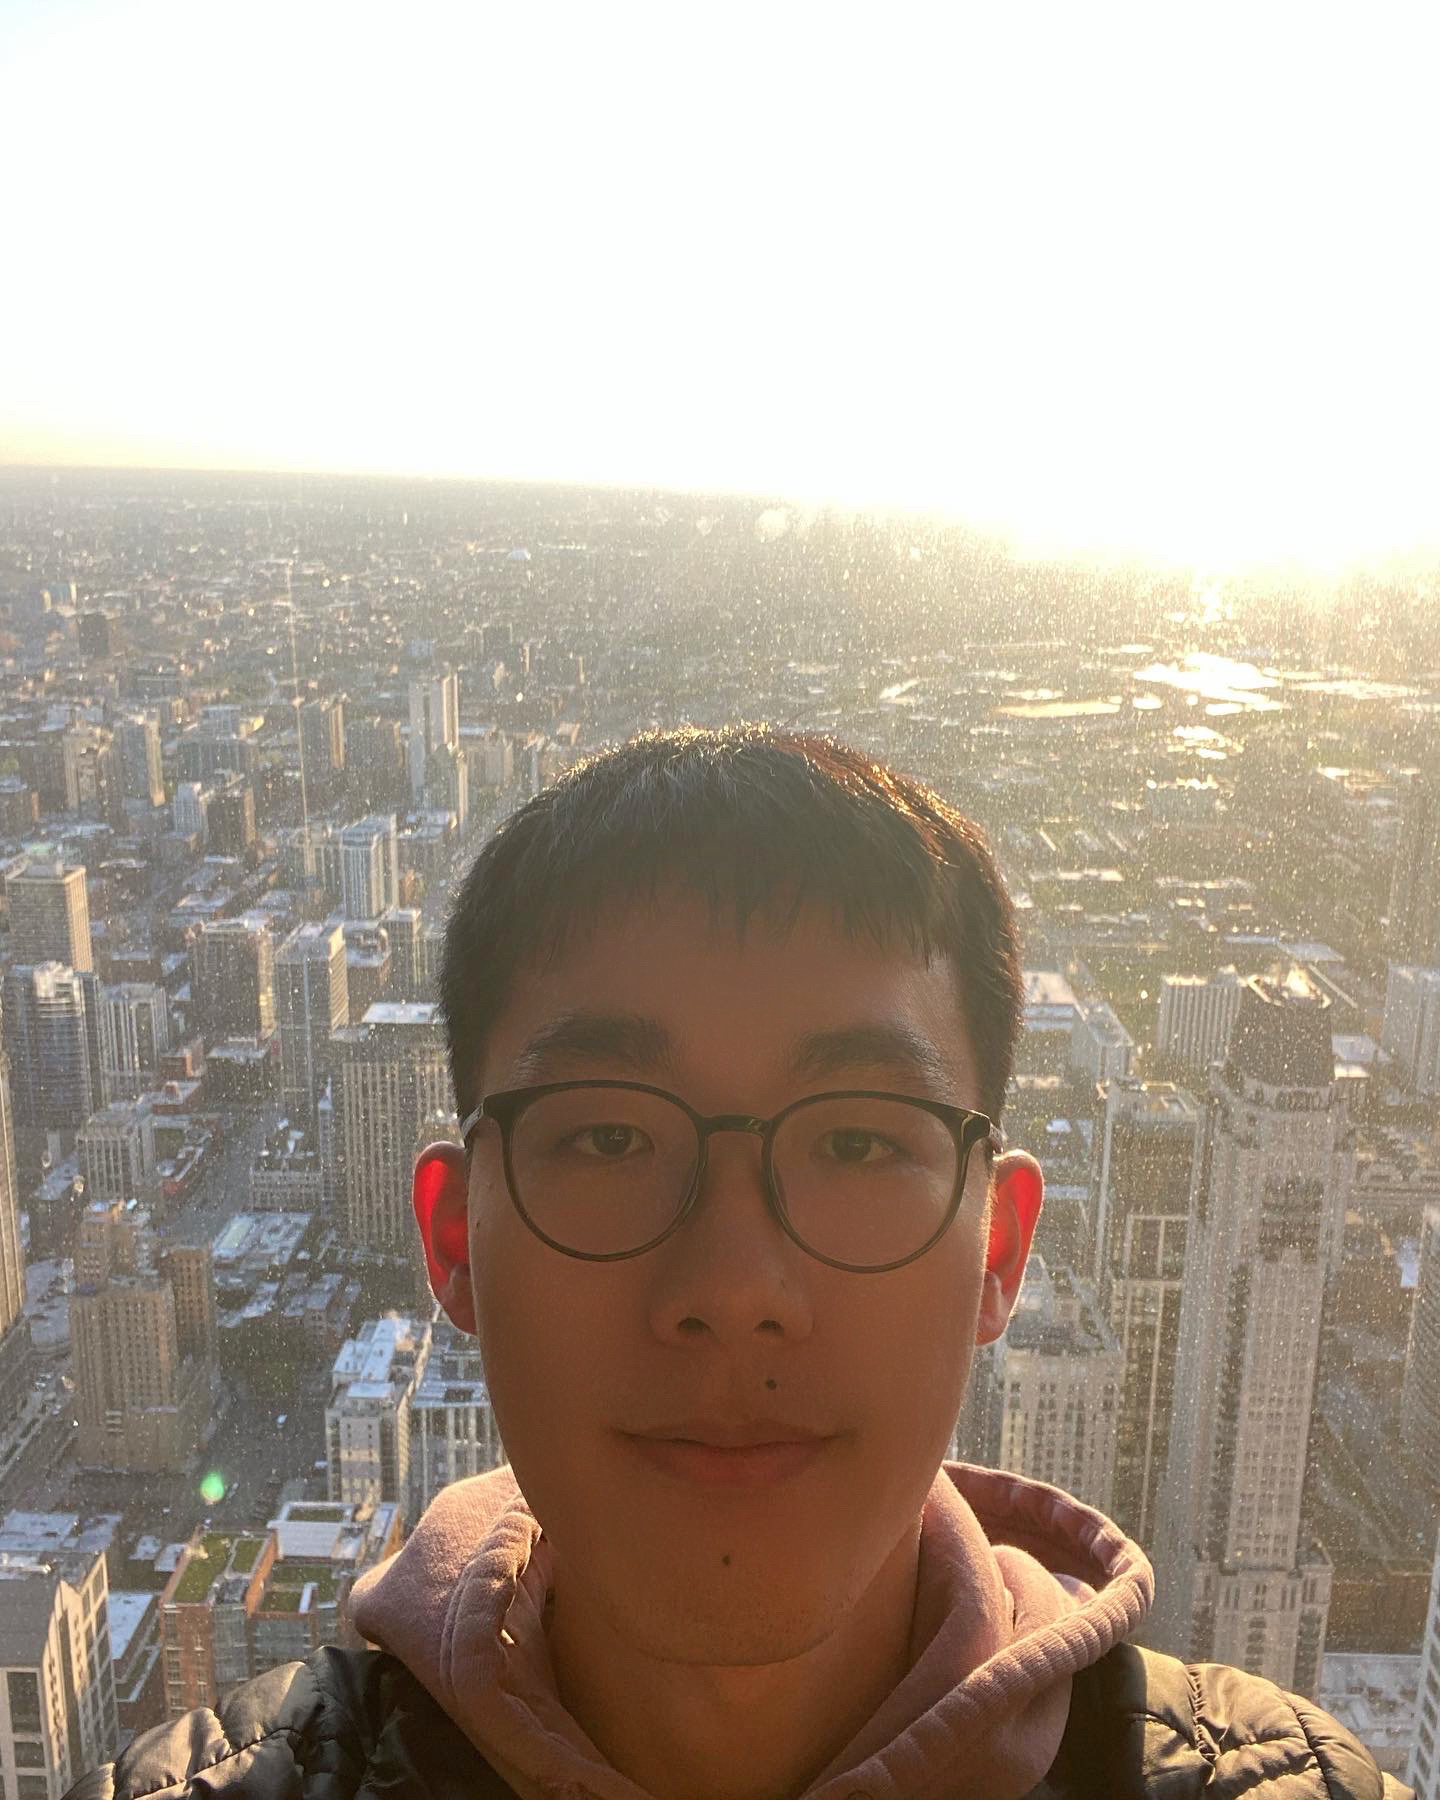
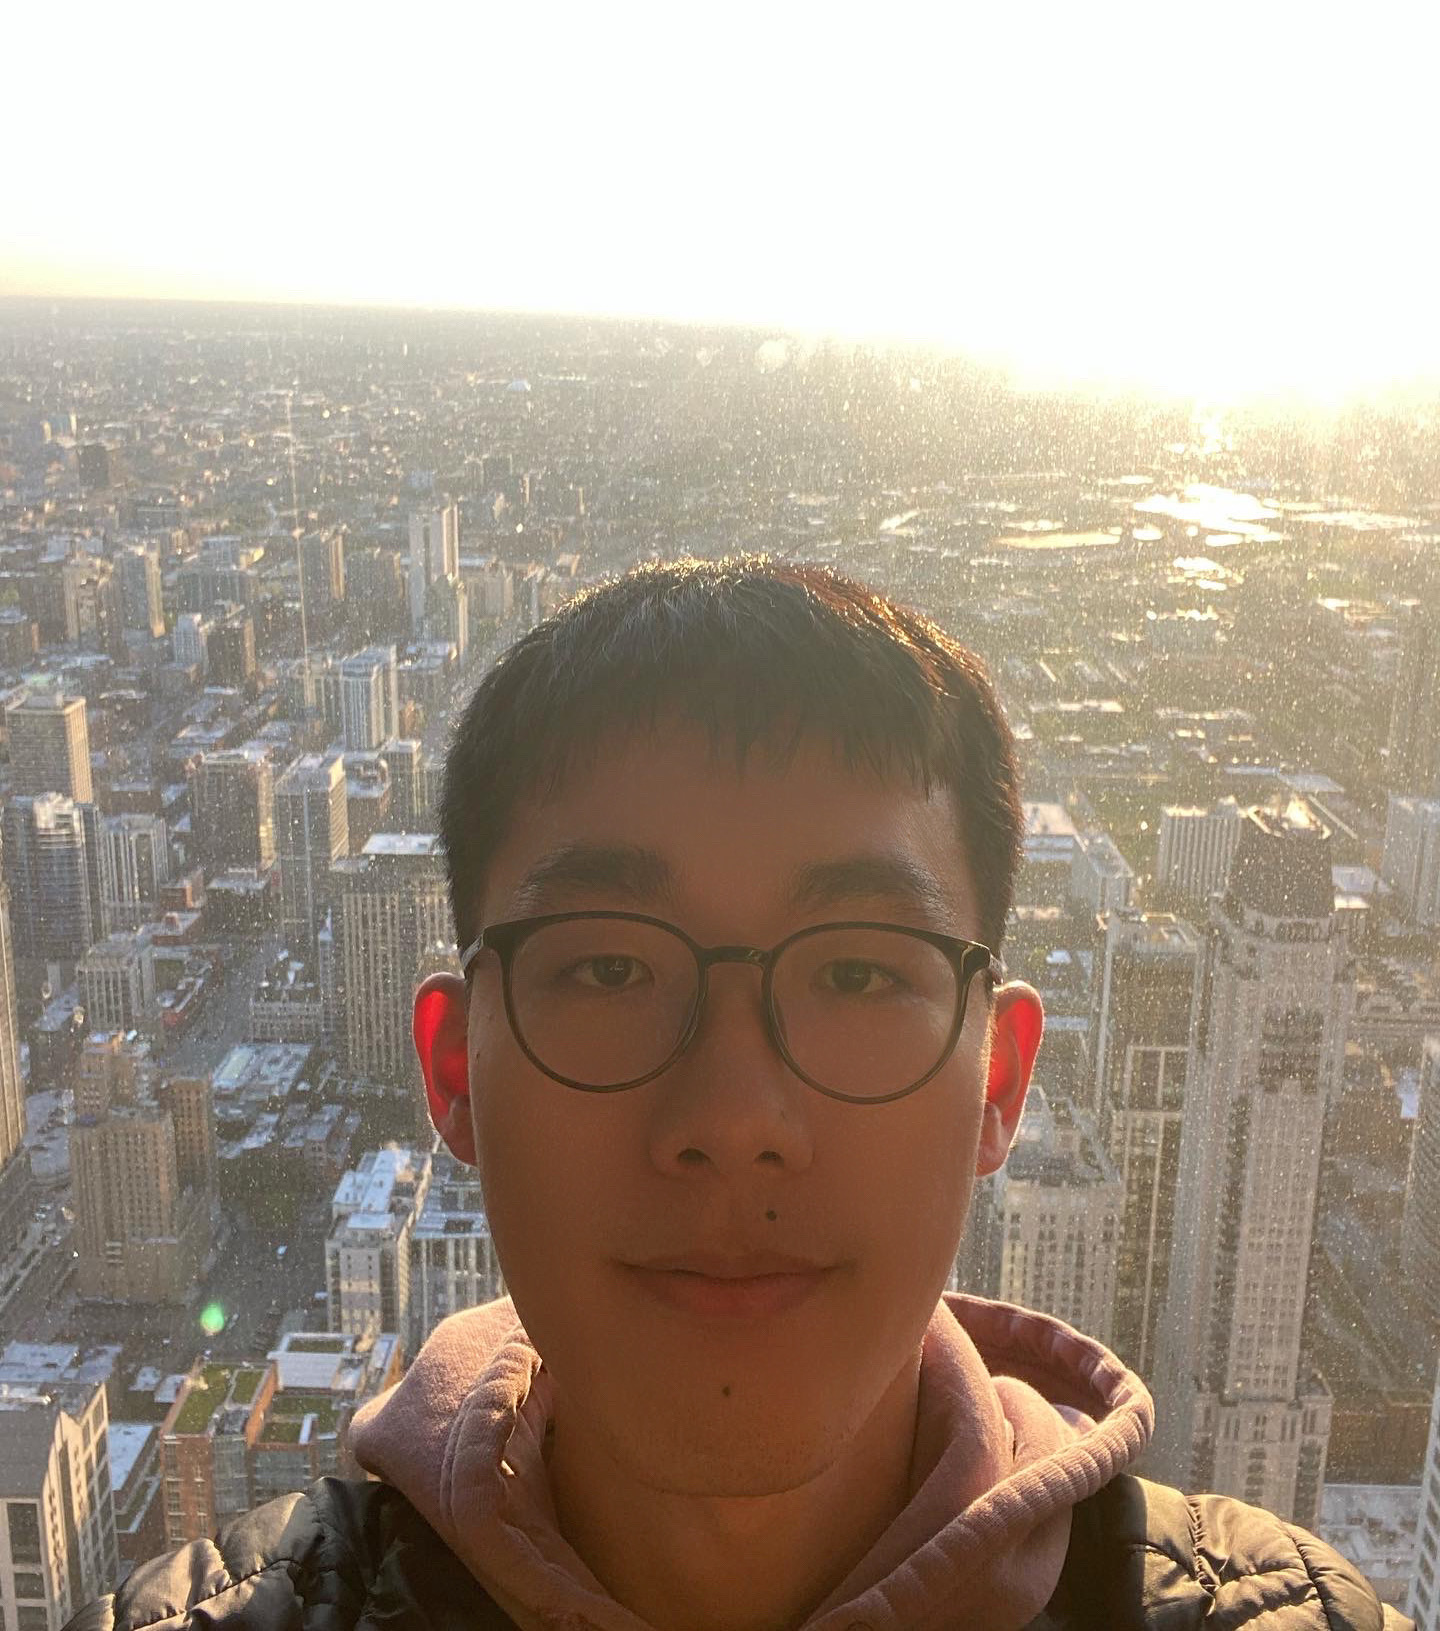
update

diff --git a/index.html b/index.html
@@ -184,71 +184,78 @@
             <div class="col-md-3 col-sm-12">
                 <!-- <div class="align-items-center text-center"> -->
                 <div class="sticky-md-top text-center py-5">
-                    <img src="content/bio/profile.JPG" class="figure-img img-fluid rounded" style="width: 80%;"
+                    <img src="content/bio/profile.JPG" class="figure-img img-fluid rounded" style="width: 70%;"
                         alt="...">
                     <div class="my-4">
-                        <h1>Muzhe Wu</h1>
+                        <h2>Muzhe Wu</h2>
                         <h6 class="mt-n1" style="font-size: small;">/ Moo-Zheh Woo /</h6>
                     </div>
 
                     <div class="my-4">
                         <h6>
-                            Student Researcher @CMUHCII
+                            Student / Researcher
                         </h6>
+                        <h2 class="my-2">
+                            <a href="content/bio/MuzheWuCV.pdf"><i class="far fa-file" style="color: #a9a9a9;"></i></a>
+                            <!-- <a href="mailto: muzhew@andrew.cmu.edu"><i class="far fa-envelope"></i></a> -->
+                            <a href="https://linkedin.com/in/wumuzhe" class="link-unstyled"><i
+                                    class="fab fa=fw fa-linkedin" style="color: #0A66C2;"></i></a>
+                            <a href="https://twitter.com/MuzheW" class="link-unstyled"><i class="fab fa-twitter"
+                                    style="color: #1DA1F2;"></i></a>
+                            <a href="https://github.com/henrw" class="link-unstyled"><i class="fab fa-github"
+                                    style="color: #000000;"></i></a>
+                        </h2>
+                        <h6 class="mb-5" style="font-weight: bolder; font-family:'Courier New', Courier, monospace;">
+                            muzhew
+                            AT cs DOT cmu.edu</h6>
                     </div>
-                    <h2 class="my-3">
-                        <a href="content/bio/MuzheWuCV.pdf"><i class="far fa-file" style="color: #a9a9a9;"></i></a>
-                        <!-- <a href="mailto: muzhew@andrew.cmu.edu"><i class="far fa-envelope"></i></a> -->
-                        <a href="https://linkedin.com/in/wumuzhe" class="link-unstyled"><i class="fab fa=fw fa-linkedin"
-                                style="color: #0A66C2;"></i></a>
-                        <a href="https://twitter.com/MuzheW" class="link-unstyled"><i class="fab fa-twitter"
-                                style="color: #1DA1F2;"></i></a>
-                        <a href="https://github.com/henrw" class="link-unstyled"><i class="fab fa-github"
-                                style="color: #000000;"></i></a>
-                    </h2>
-                    <h6 class="mb-5" style="font-weight: bolder; font-family:'Courier New', Courier, monospace;">muzhew
-                        AT cs DOT cmu.edu</h6>
-                    <div class="card">
-                        <div class="card-body">
-                            <h5>News <i class="far fa-newspaper"></i></i></h5>
-                            <div id="carouselExampleCaptions" class="carousel slide" style="width: 100%;">
-                                <div class="carousel-indicators">
-                                    <button type="button" data-bs-target="#carouselExampleCaptions" data-bs-slide-to="0"
-                                        class="active" aria-current="true" aria-label="Slide 1"></button>
-                                    <button type="button" data-bs-target="#carouselExampleCaptions" data-bs-slide-to="1"
-                                        aria-label="Slide 2"></button>
-                                    <!-- <button type="button" data-bs-target="#carouselExampleCaptions" data-bs-slide-to="2" aria-label="Slide 3"></button> -->
-                                </div>
-                                <div class="carousel-inner">
-                                    <div class="carousel-item active">
-                                        <img src="content/news/23-07-28-LearnLab-SummerSchool.JPG"
-                                            class="d-block center-block" style="height: 200px;" alt="...">
-                                        <div class="carousel-caption d-none d-md-block">
-                                            <!-- <h5>Second slide label</h5> -->
-                                            <h7>(07/28/2023) I finished CMU LearnLab Summer School in CML track with my
-                                                amazing teammates and mentors.</h7>
+
+                    <div class="px-2">
+                        <div class="card">
+                            <div class="card-body">
+                                <h5>News <i class="far fa-newspaper"></i></i></h5>
+                                <div id="carouselExampleCaptions" class="carousel slide" style="width: 100%;">
+                                    <div class="carousel-indicators">
+                                        <button type="button" data-bs-target="#carouselExampleCaptions"
+                                            data-bs-slide-to="0" class="active" aria-current="true"
+                                            aria-label="Slide 1"></button>
+                                        <button type="button" data-bs-target="#carouselExampleCaptions"
+                                            data-bs-slide-to="1" aria-label="Slide 2"></button>
+                                        <!-- <button type="button" data-bs-target="#carouselExampleCaptions" data-bs-slide-to="2" aria-label="Slide 3"></button> -->
+                                    </div>
+                                    <div class="carousel-inner">
+                                        <div class="carousel-item active">
+                                            <img src="content/news/23-07-28-LearnLab-SummerSchool.JPG"
+                                                class="d-block center-block" style="height: 170px;" alt="...">
+                                            <div class="carousel-caption d-none d-md-block">
+                                                <!-- <h5>Second slide label</h5> -->
+                                                <h7>(07/28/2023) I finished CMU LearnLab Summer School in CML track with
+                                                    my
+                                                    amazing teammates and mentors.</h7>
+                                            </div>
+                                        </div>
+                                        <div class="carousel-item">
+                                            <img src="content/news/22-11-05-MI-AI-symposium.jpg"
+                                                class="d-block center-block" style="height: 170px;" alt="...">
+                                            <div class="carousel-caption d-none d-sm-block">
+                                                <!-- <h5>First slide label</h5> -->
+                                                <h7>(11/05/2022) I attended Michigan AI symposium 2022 and won the best
+                                                    demo
+                                                    with my team.</h7>
+                                            </div>
                                         </div>
                                     </div>
-                                    <div class="carousel-item">
-                                        <img src="content/news/22-11-05-MI-AI-symposium.jpg"
-                                            class="d-block center-block" style="height: 200px;" alt="...">
-                                        <div class="carousel-caption d-none d-sm-block">
-                                            <!-- <h5>First slide label</h5> -->
-                                            <h7>(11/05/2022) I attended Michigan AI symposium 2022 and won the best demo
-                                                with my team.</h7>
-                                        </div>
-                                    </div>
+                                    <button class="carousel-control-prev" type="button"
+                                        data-bs-target="#carouselExampleCaptions" data-bs-slide="prev">
+                                        <span class="carousel-control-prev-icon" aria-hidden="true"></span>
+                                        <span class="visually-hidden">Previous</span>
+                                    </button>
+                                    <button class="carousel-control-next" type="button"
+                                        data-bs-target="#carouselExampleCaptions" data-bs-slide="next">
+                                        <span class="carousel-control-next-icon" aria-hidden="true"></span>
+                                        <span class="visually-hidden">Next</span>
+                                    </button>
                                 </div>
-                                <button class="carousel-control-prev" type="button"
-                                    data-bs-target="#carouselExampleCaptions" data-bs-slide="prev">
-                                    <span class="carousel-control-prev-icon" aria-hidden="true"></span>
-                                    <span class="visually-hidden">Previous</span>
-                                </button>
-                                <button class="carousel-control-next" type="button"
-                                    data-bs-target="#carouselExampleCaptions" data-bs-slide="next">
-                                    <span class="carousel-control-next-icon" aria-hidden="true"></span>
-                                    <span class="visually-hidden">Next</span>
-                                </button>
                             </div>
                         </div>
                     </div>
@@ -270,14 +277,17 @@
                                     Technology and Applied Learning Sciences</a></span>.
                         </p>
                         <p>
-                            My research interest lies in Human-AI Interaction and Extended Reality. I am specifically keen on
+                            My research interest lies in Human-AI Interaction and Extended Reality. I am specifically
+                            keen on
                             understanding
-                            <u>how humans can learn from/with emergent technologies (e.g., AI, XR) and how emergent technologies can learn from/for
+                            <u>how humans can learn from/with emergent technologies (e.g., AI, XR) and how emergent
+                                technologies can learn from/for
                                 humans</u>.
                             Towards this goal, I am working with
-                            <span class="normal"><a href="https://www.andrew.cmu.edu/user/hongs/" class="umich">Prof. Hong
+                            <span class="normal"><a href="https://www.andrew.cmu.edu/user/hongs/" class="umich">Prof.
+                                    Hong
                                     Shen</a></span>
-                            on AI Auditing. I have also worked with 
+                            on AI Auditing. I have also worked with
                             <span class="normal"><a href="https://guoanhong.com/" class="umich">Prof. Anhong
                                     Guo</a></span>,
                             <span class="normal"><a href="https://web.eecs.umich.edu/~xwanghci/" class="umich">Prof. Xu
@@ -286,11 +296,12 @@
                             and
                             <span class="normal"><a href="https://eecs.engin.umich.edu/people/perez-rosas-veronica/"
                                     class="umich">Dr. Veronica Perez Rosas</a></span> in my undergrad,
-                            exploring various domains including intelligent tutors, multimodal learning and generalist agent
+                            exploring various domains including intelligent tutors, multimodal learning and generalist
+                            agent
                         </p>
 
                     </div>
-                    <br/>
+                    <br />
                     <div id="education">
                         <h2>Education</h2>
                         <ul class="list-unstyled">
@@ -373,7 +384,7 @@
                             </li>
                         </ul>
                     </div>
-                    <br/>
+                    <br />
                     <div id="awards">
                         <h2>Awards & Scholarships</h2>
                         <ul class="list-unstyled">
@@ -465,7 +476,7 @@
                             </li>
                         </ul>
                     </div>
-                    <br/>
+                    <br />
                     <div id="research">
                         <h2>Research Projects</h2>
                         <div class="row my-3">
@@ -593,7 +604,7 @@
                             </div>
                         </div>
                     </div>
-                    <br/>
+                    <br />
                     <div id="projects">
                         <h2>Side Projects</h2>
                         <div class="row my-3">
@@ -606,7 +617,8 @@
                             <div class="col-8">
                                 <h5>How Do You See The World
                                 </h5>
-                                <h7 class="text-muted">Simulate visual impairments in VR environments to educate people about these conditions and increase awareness.</h7><br>
+                                <h7 class="text-muted">Simulate visual impairments in VR environments to educate people
+                                    about these conditions and increase awareness.</h7><br>
                                 <h7>
                                     <a href="https://www.youtube.com/watch?v=G-AvFl6b4iE" class="btn btn-outline-dark"
                                         style="--bs-btn-padding-y: .25rem; --bs-btn-padding-x: .5rem; --bs-btn-font-size: .75rem;">Video</a>
